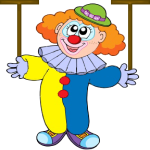
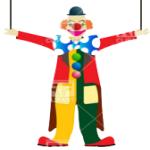
zikovic
new clown without sticks
added bar object as sticks
added background
removed shelfs
added catching plates

diff --git a/src/main/java/View/CircusOfPlates.java b/src/main/java/View/CircusOfPlates.java
@@ -2,6 +2,7 @@ package View;
 
 import Model.BarObject;
 import Model.Clown;
+import Model.ImageObject;
 import eg.edu.alexu.csd.oop.game.*;
 import static java.awt.Color.black;
 import java.awt.Point;
@@ -23,32 +24,34 @@ public class CircusOfPlates implements World {
     private final List<GameObject> control = new LinkedList<>();
     private ArrayList<Point> shelfLocation = new ArrayList<>();
     MovingObjectsFactory movingObjectsFactory;
+    private final int NUMBER_OF_PLATES = 20;
 
     public CircusOfPlates(int screenWidth, int screenHeight) {
 
         width = screenWidth;
         height = screenHeight;
 
-        constant.add(new BarObject(0, height / 5, 200, true, black));//upperLeft
-        constant.add(new BarObject(width - 200, height / 5, 200, true, black));//upperRight
-        constant.add(new BarObject(0, height / 3, 100, true, black));//lowerLeft
-        constant.add(new BarObject(width - 100, height / 3, 100, true, black));//lowerRight
-
-        shelfLocation.add(new Point(constant.get(0).getX(), constant.get(0).getY()));
-        shelfLocation.add(new Point(constant.get(1).getX() + constant.get(1).getWidth() - plateWidth, constant.get(1).getY()));
-        shelfLocation.add(new Point(constant.get(2).getX(), constant.get(2).getY()));
-        shelfLocation.add(new Point(constant.get(3).getX() + constant.get(3).getWidth() - plateWidth, constant.get(3).getY()));
-
+//        constant.add(new BarObject(0, height / 5, 200, true, black));//upperLeft
+//        constant.add(new BarObject(width - 200, height / 5, 200, true, black));//upperRight
+//        constant.add(new BarObject(0, height / 3, 100, true, black));//lowerLeft
+//        constant.add(new BarObject(width - 100, height / 3, 100, true, black));//lowerRight
+//
+//        shelfLocation.add(new Point(constant.get(0).getX(), constant.get(0).getY()));
+//        shelfLocation.add(new Point(constant.get(1).getX() + constant.get(1).getWidth() - plateWidth, constant.get(1).getY()));
+//        shelfLocation.add(new Point(constant.get(2).getX(), constant.get(2).getY()));
+//        shelfLocation.add(new Point(constant.get(3).getX() + constant.get(3).getWidth() - plateWidth, constant.get(3).getY()));
         movingObjectsFactory = new MovingObjectsFactory(shelfLocation);
+        constant.add(new ImageObject(0, 0, "/background.png"));
 
         Clown clown = Clown.getInstance();//singleton pattern        
         clown.createClown("/clown1.png");
         control.add(clown.clownObject);
+        control.add(new BarObject(clown.clownObject.getX() - 10, clown.clownObject.getY() - 5, 40, true, black));
+        control.add(new BarObject(clown.clownObject.getX() + 120, clown.clownObject.getY() - 5, 40, true, black));
 
-        moving.add(movingObjectsFactory.getRandomMovingObjectInstance());
-        moving.add(movingObjectsFactory.getRandomMovingObjectInstance());
-        moving.add(movingObjectsFactory.getRandomMovingObjectInstance());
-        moving.add(movingObjectsFactory.getRandomMovingObjectInstance());
+        for (int i = 0; i < NUMBER_OF_PLATES; i++) {
+            moving.add(movingObjectsFactory.getRandomMovingObjectInstance(screenWidth));
+        }
 
         //first, moving objects move on shelf then drop
         // add 20 moving objects with random colors
@@ -91,17 +94,29 @@ public class CircusOfPlates implements World {
     @Override
     public boolean refresh() {
         boolean timeout = System.currentTimeMillis() - startTime > MAX_TIME;
+        control.get(1).setX(Clown.getInstance().clownObject.getX() - 10);
+        control.get(2).setX(Clown.getInstance().clownObject.getX() + 120);
 
         for (GameObject plate : moving) {
 
-            if (intersect(plate, this.constant.get(0)) || intersect(plate, this.constant.get(2))) {
-                plate.setX(plate.getX() + 1);
-            } else if (intersect(plate, this.constant.get(1)) || intersect(plate, this.constant.get(3))) {
-                plate.setX(plate.getX() - 1);
-            } else if (!intersect(plate, control.get(0))) {
+//            if (intersect(plate, this.constant.get(0)) || intersect(plate, this.constant.get(2))) {
+//                plate.setX(plate.getX() + 1);
+//            } else if (intersect(plate, this.constant.get(1)) || intersect(plate, this.constant.get(3))) {
+//                plate.setX(plate.getX() - 1);
+//            }
+            if (!intersect(plate, control.get(1)) && !intersect(plate, control.get(2))) { //if plate is not caught
                 plate.setY((plate.getY() + 1));
+            } else if (intersect(plate, control.get(1))) { //if plate is caught on left bar
+                    plate.setX(control.get(1).getX());
+            } else if (intersect(plate, control.get(2))) {  //if plate is caught on right bar
+                    plate.setX(control.get(2).getX());
+            }
+            if (plate.getY() > height) {
+                plate.setY(0);
+                plate.setX((int) (Math.random() * width));
             }
         }
+
         return !timeout;
     }
 

diff --git a/src/main/java/Model/BarObject.java b/src/main/java/Model/BarObject.java
@@ -8,77 +8,89 @@ import java.awt.image.BufferedImage;
 
 import eg.edu.alexu.csd.oop.game.GameObject;
 
-public class BarObject implements GameObject{
-	public static final int SPRITE_HEIGHT = 5;
-	private static final int MAX_MSTATE = 1;
-	// an array of sprite images that are drawn sequentially
-	private BufferedImage[] spriteImages = new BufferedImage[MAX_MSTATE];
-	private int x;
-	private int y;
-	private int width;
-	private boolean visible;
-	private boolean horizontalOnly;
+public class BarObject implements GameObject {
 
-	public BarObject(int posX, int posY, int width, boolean horizontalOnly, Color color){
-		this.x = posX;
-		this.y = posY;
-		this.width = width;
-		this.horizontalOnly = horizontalOnly;
-		this.visible = true;
-		// create a bunch of buffered images and place into an array, to be displayed sequentially
-		spriteImages[0] = new BufferedImage(width, SPRITE_HEIGHT,	BufferedImage.TYPE_INT_ARGB);
-		Graphics2D g2 = spriteImages[0].createGraphics();
-		g2.setColor(color);
-		g2.setBackground(color);
-		g2.setRenderingHint(RenderingHints.KEY_ANTIALIASING, RenderingHints.VALUE_ANTIALIAS_ON);
-		g2.setStroke(new BasicStroke(20));
-		g2.drawLine(0, 0, getWidth(), 0);
-		g2.dispose();
-	}
+    public static final int SPRITE_HEIGHT = 5;
+    private static final int MAX_MSTATE = 1;
+    // an array of sprite images that are drawn sequentially
+    private BufferedImage[] spriteImages = new BufferedImage[MAX_MSTATE];
+    private int x;
+    private int y;
+    private int width;
+    private int height=5;
+    private boolean visible;
+    private boolean horizontalOnly;
+    private int stackHeight=0;
 
-	@Override
-	public int getX() {
-		return x;
-	}
+    public BarObject(int posX, int posY, int width, boolean horizontalOnly, Color color) {
+        this.x = posX;
+        this.y = posY;
+        this.width = width;
+        this.horizontalOnly = horizontalOnly;
+        this.visible = true;
+        // create a bunch of buffered images and place into an array, to be displayed sequentially
+        spriteImages[0] = new BufferedImage(width, height, BufferedImage.TYPE_INT_ARGB);
+        Graphics2D g2 = spriteImages[0].createGraphics();
+        g2.setColor(color);
+        g2.setBackground(color);
+        g2.setRenderingHint(RenderingHints.KEY_ANTIALIASING, RenderingHints.VALUE_ANTIALIAS_ON);
+        g2.setStroke(new BasicStroke(20));
+        g2.drawLine(0, 0, getWidth(), 0);
+        g2.dispose();
+    }
 
-	@Override
-	public void setX(int mX) {
-		this.x = mX;
-	}
+    @Override
+    public int getX() {
+        return x;
+    }
 
-	@Override
-	public int getY() {
-		return y;
-	}
+    @Override
+    public void setX(int mX) {
+        this.x = mX;
+    }
 
-	@Override
-	public void setY(int mY) {
-		if(horizontalOnly)
-			return;
-		this.y = mY;
-	}
+    @Override
+    public int getY() {
+        return y;
+    }
 
-	@Override
-	public BufferedImage[] getSpriteImages() {
-		return spriteImages;
-	}
+    @Override
+    public void setY(int mY) {
+        if (horizontalOnly) {
+            return;
+        }
+        this.y = mY;
+    }
 
-	@Override
-	public int getWidth(){
-		return width;
-	}
+    @Override
+    public BufferedImage[] getSpriteImages() {
+        return spriteImages;
+    }
 
-	@Override
-	public int getHeight() {
-		return SPRITE_HEIGHT;
-	}
+    @Override
+    public int getWidth() {
+        return width;
+    }
 
-	@Override
-	public boolean isVisible() {
-		return visible;
-	}
-	
-	public void setVisible(boolean visible){
-		this.visible = visible;
-	}
+    public int getBarHeight(){
+        return SPRITE_HEIGHT;
+    }
+    
+    @Override
+    public int getHeight() {
+        return height;
+    }
+    public void setHeight(int height){
+        this.height=height;
+    }
+
+    @Override
+    public boolean isVisible() {
+        return visible;
+    }
+
+    public void setVisible(boolean visible) {
+        this.visible = visible;
+    }
+
 }

diff --git a/src/main/java/View/MovingObjectsFactory.java b/src/main/java/View/MovingObjectsFactory.java
@@ -15,8 +15,8 @@ public class MovingObjectsFactory {
         this.shelfLocation = shelfLocation;
     }
 
-    public GameObject getRandomMovingObjectInstance() {
+    public GameObject getRandomMovingObjectInstance(int screenWidth) {
         Collections.shuffle(shelfLocation);
-        return new ImageObject((int) shelfLocation.get(0).getX(), (int) shelfLocation.get(0).getY(), paths[(int) Math.floor(Math.random() * paths.length)], 1);
+        return new ImageObject((int) (Math.random()*screenWidth), 0, paths[(int) Math.floor(Math.random() * paths.length)], 1);
     }
 }
